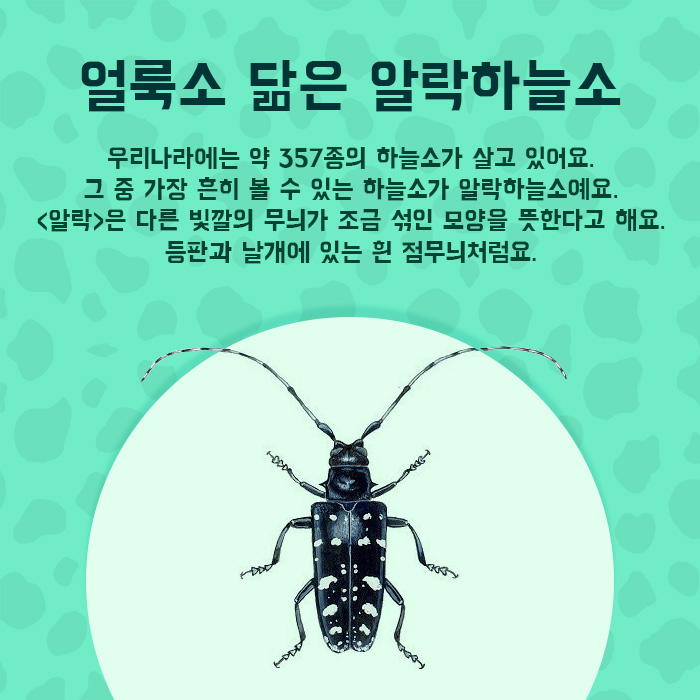
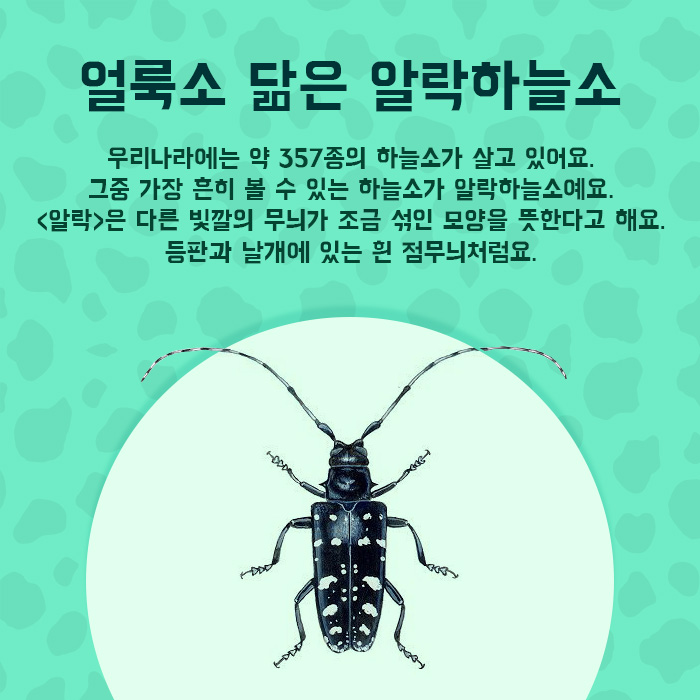
34

Changed region(s): [[0.51, 0.24, 0.87, 0.3], [0.12, 0.24, 0.48, 0.3]]

diff --git a/index_34.html b/index_34.html
@@ -89,7 +89,7 @@
                     등판과 날개에 있는 흰 점무늬처럼요.</p>
             <h3>몸보다 길고 단단한 더듬이
             </h3>
-                <p>알락하늘소의 몸길이는 30~35 mm 정도이고,
+                <p>알락하늘소의 몸길이는 30~35mm 정도이고,
                     검은색에 광택이 있어요. 
                     더듬이는 몸보다 길어서 수컷이 몸길이의 약 2배이고 암컷은 약 1.2배 정도지요.
                     앞가슴 등판과 딱지날개에는 흰색의 점무늬가 
@@ -114,7 +114,7 @@
                     무엇보다 다리 힘이 좋아야 하니까요.
                     긴 더듬이를 손가락으로 잡고 발에 돌을 가져다 주면
                     알락하늘소는 자신보다 무거운 돌을 다리로 움켜쥐어 번쩍 들지요.
-                    이 모습이 재미있어 옛날 아이들은 누구의 알락하늘소가 
+                    이 모습이 재미있어 옛날엔 누구의 알락하늘소가 
                     더 큰 돌을 드는지 내기를 하며 놀았답니다.
                     그래서 알락하늘소를 <돌드레, 돌집게, 돌드레미>라고도 부르지요.</p>
                 <h3>알락하늘소 한살이 
